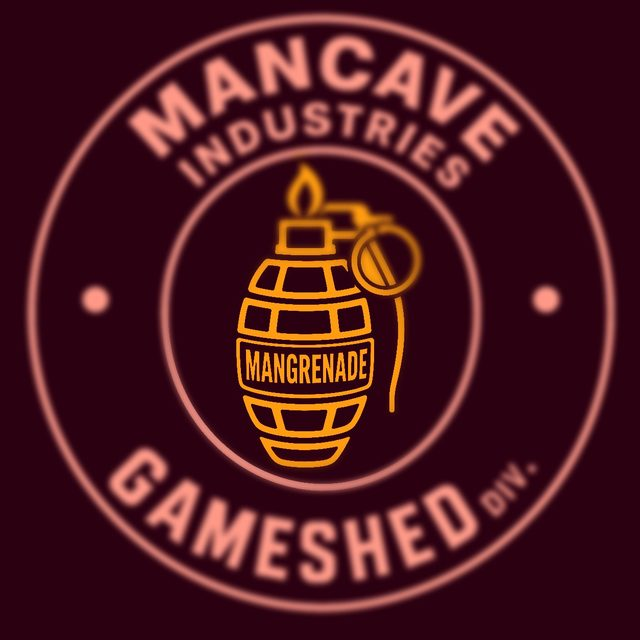
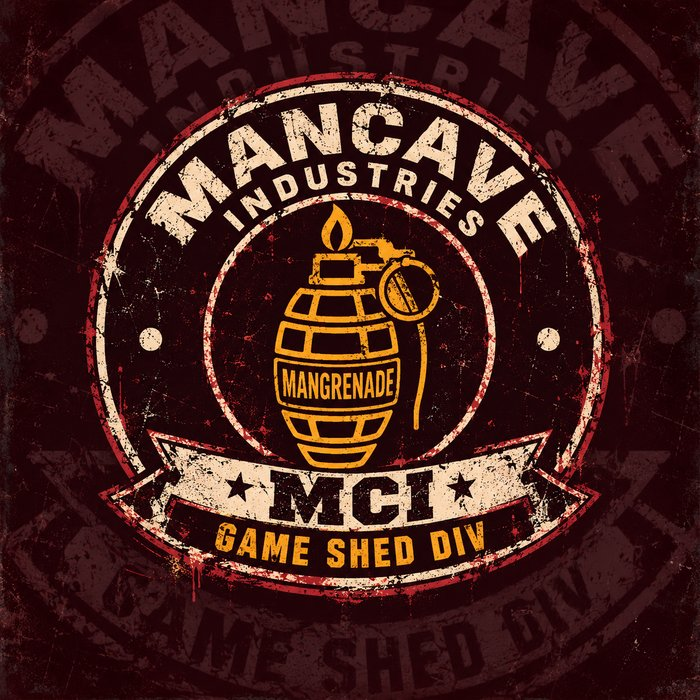
Update watermark to the real brand artwork at 15% opacity
Replaced the placeholder watermark image with the actual Mancave Industries / Game Shed distressed-stamp artwork, and raised the watermark opacity from an ad-hoc 0.045 to the specified 0.15 -- an explicit brand instruction this time, not a value picked for subtlety. Kept the existing screen blend mode and radial edge mask, both of which still read cleanly against the new artwork.

Checked via screenshots across Title, Setup, and a Reveal pass-prompt screen: the ring text is now legibly readable on sparse screens as intended, stays out of the way on content-dense screens where opaque panels cover most of it, and game-critical text stays fully legible everywhere.

Claude-Session: https://claude.ai/code/session_01BXSktdT9oqibg7MgqrPYMx

diff --git a/css/style.css b/css/style.css
@@ -114,12 +114,13 @@ body {
   flex-direction: column;
 }
 
-/* Mancave Industries / Game Shed badge, worked in as a faint always-there
-   watermark rather than a logo anyone has to look at — screen blend mode
-   drops its own near-black background out against ours and leaves only
-   the gold/coral linework, just barely readable. Sits behind every screen
-   (.screen has no background of its own, so this shows through the empty
-   space of all of them) and never intercepts taps. */
+/* Mancave Industries / Game Shed badge, worked in as an always-there
+   watermark at the brand's specified 15% opacity — screen blend mode
+   drops its own dark background out against ours and brightens the
+   cream/gold linework, so it reads as a legible stamp rather than a flat
+   logo pasted on top. Sits behind every screen (.screen has no background
+   of its own, so this shows through the empty space of all of them) and
+   never intercepts taps. */
 .app::before {
   content: "";
   position: absolute;
@@ -130,7 +131,7 @@ body {
   background-repeat: no-repeat;
   background-position: center 56%;
   background-size: 60%;
-  opacity: 0.045;
+  opacity: 0.15;
   mix-blend-mode: screen;
   -webkit-mask-image: radial-gradient(circle, #000 32%, transparent 68%);
   mask-image: radial-gradient(circle, #000 32%, transparent 68%);

diff --git a/TEST_REPORT.md b/TEST_REPORT.md
@@ -575,6 +575,28 @@ Instagram/TikTok/etc.) can cover or intercept taps.
   The goal was never eliminating scrolling, only ensuring a button is
   never flush against the literal device edge once it's actually in view.
 
+## 17. Updated watermark artwork at 15% opacity (follow-up round)
+
+Replaced `assets/brand/mancave-gameshed-badge.jpg` with the brand's actual
+distressed-stamp artwork (circular "MANCAVE INDUSTRIES / MCI / GAME SHED
+DIV" seal with its own baked-in tiled background texture), resized to
+700×700 and re-compressed (~140KB). Raised `.app::before`'s `opacity` from
+the earlier ad-hoc `0.045` to the specified `0.15` — explicit brand
+instruction, not a value chosen for subtlety this time. Kept the existing
+`screen` blend mode and radial mask (crops the image's own square canvas
+edges to a soft circular falloff) since both still read correctly against
+the new artwork.
+
+- **Visual check**: screenshotted Title, Setup, and a Reveal pass-prompt
+  screen. At 15% the ring text ("MANCAVE INDUSTRIES", "GAME SHED DIV") is
+  now legibly readable behind sparse screens (Title, pass-prompts) — a
+  deliberate step up from the earlier barely-there treatment — while
+  staying out of the way on content-dense screens like Setup, where
+  opaque card/input/panel backgrounds cover most of it anyway. Game-
+  critical text (player names, instructions, buttons) stayed fully legible
+  against it on every screen checked; no masking or sizing changes were
+  needed for the new artwork.
+
 ## Summary
 
 | Layer | Trials | Bugs found | Bugs fixed |
@@ -591,6 +613,7 @@ Instagram/TikTok/etc.) can cover or intercept taps.
 | Skip Ahead early-vote option (live integration) | 1 full UI playthrough | 0 (1 test-timing bug in my own test script — checked the sting screen's text after it had already transitioned away, since the sequence resolves near-instantly with sound off; fixed in the test, not the app) | — |
 | Spotify playlist link-out (live integration) | 1 full UI playthrough | 0 (1 test-timing bug of the same kind, same fix) | — |
 | Edge safe zones (automated bounding-box audit) | 10 screens/modals at default content + 1 worst-case 8-player stress test | 1 (Setup-screen overflow pushing its button into the bottom buffer at rest) | 1 |
+| Watermark artwork + opacity update (visual check) | 3 screenshots | 0 | — |
 
 The game can be played start-to-finish — Title through Results, and back to
 Title via Play Again or Next Game — with no console errors, for every
